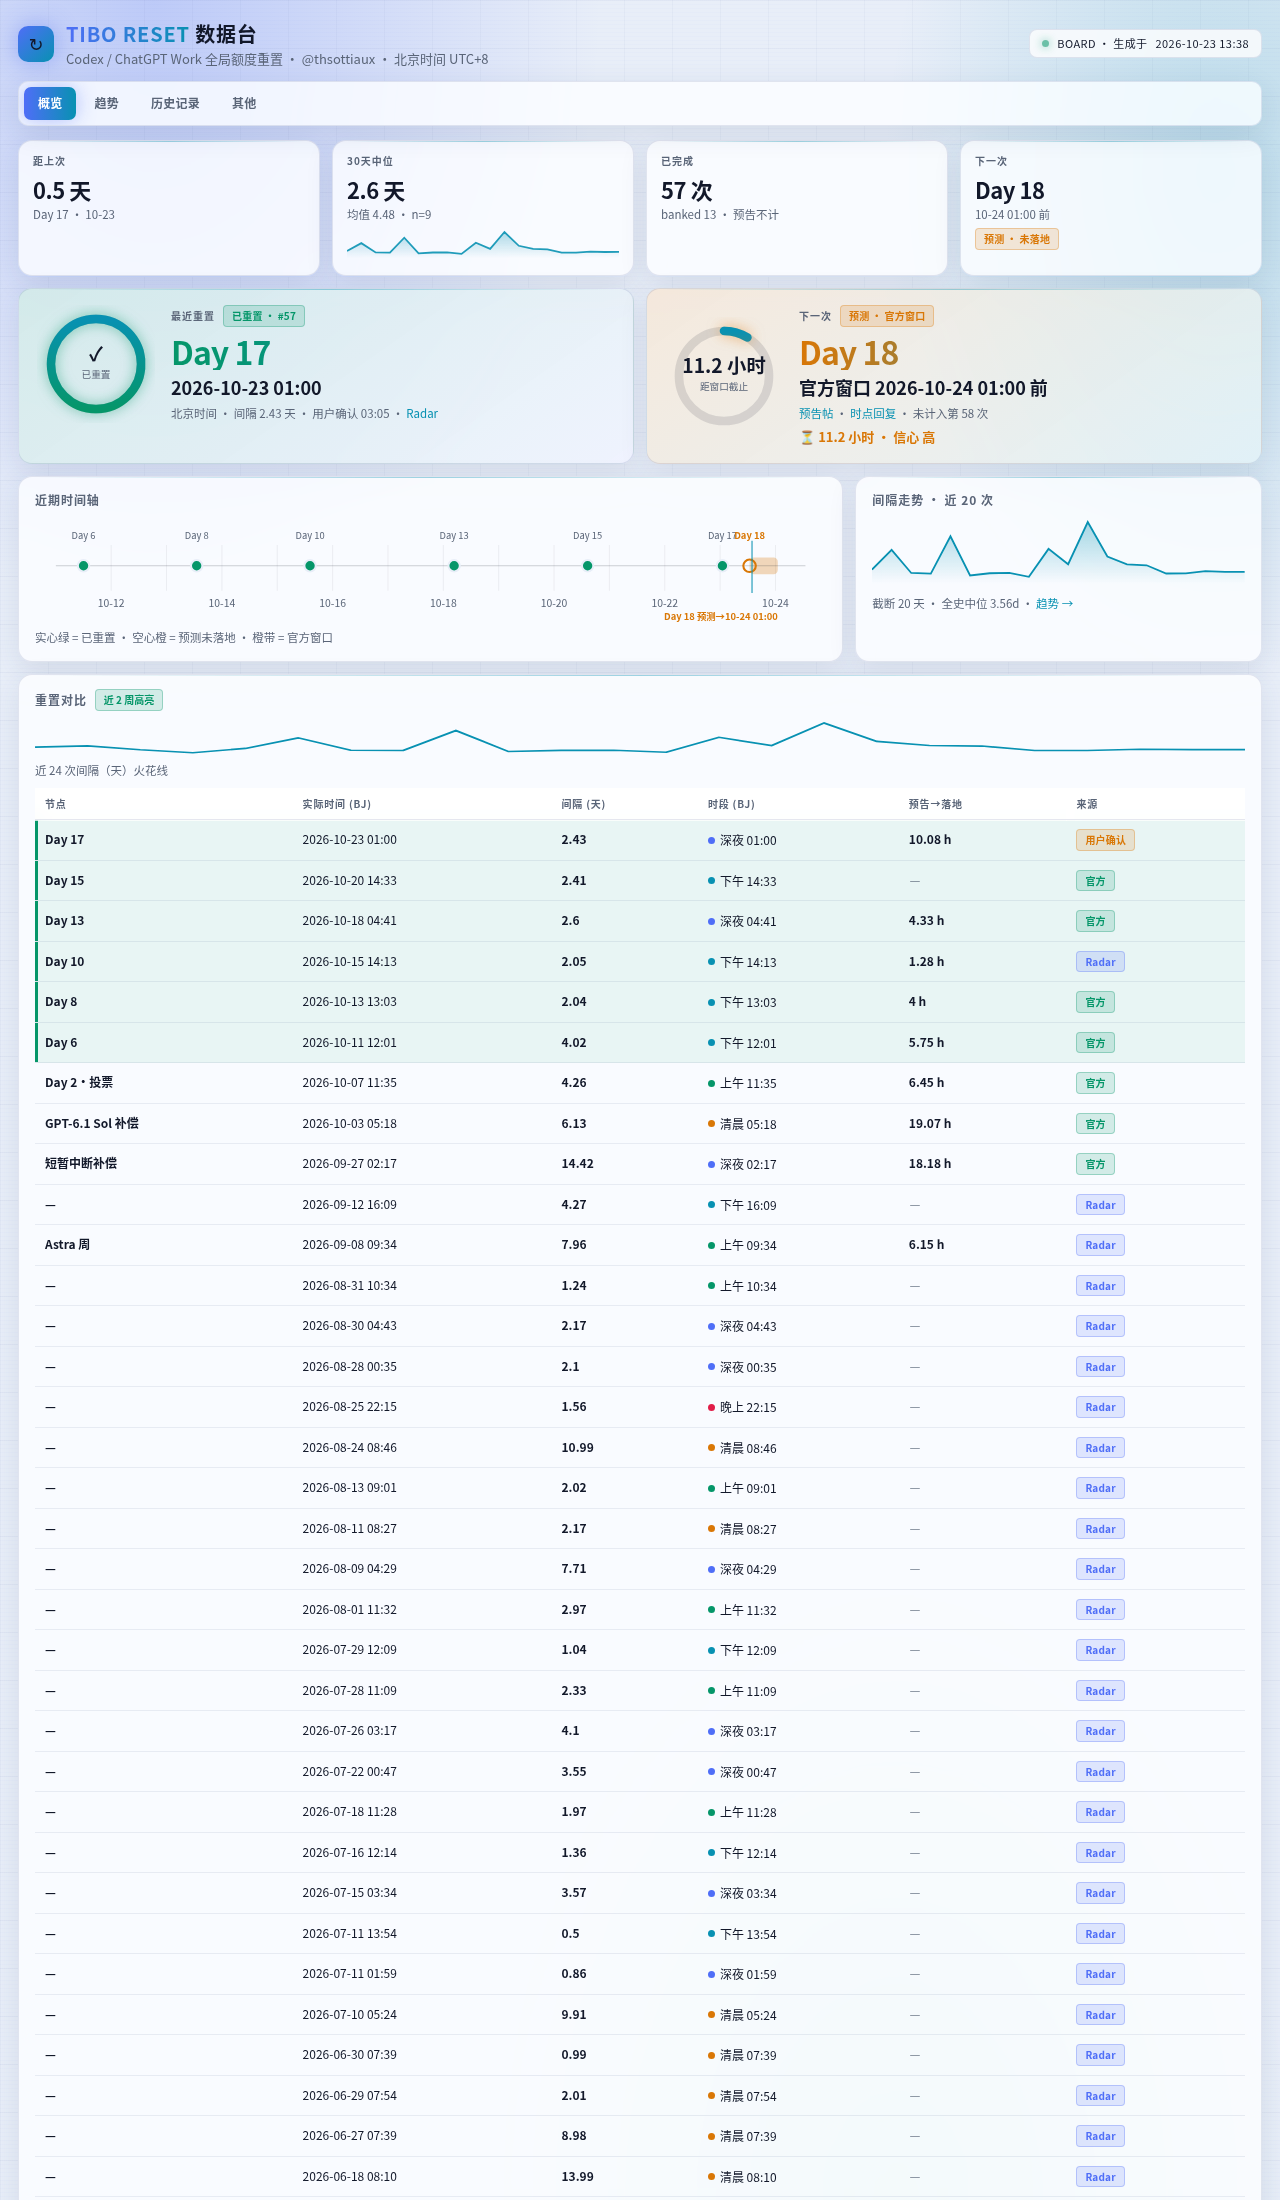
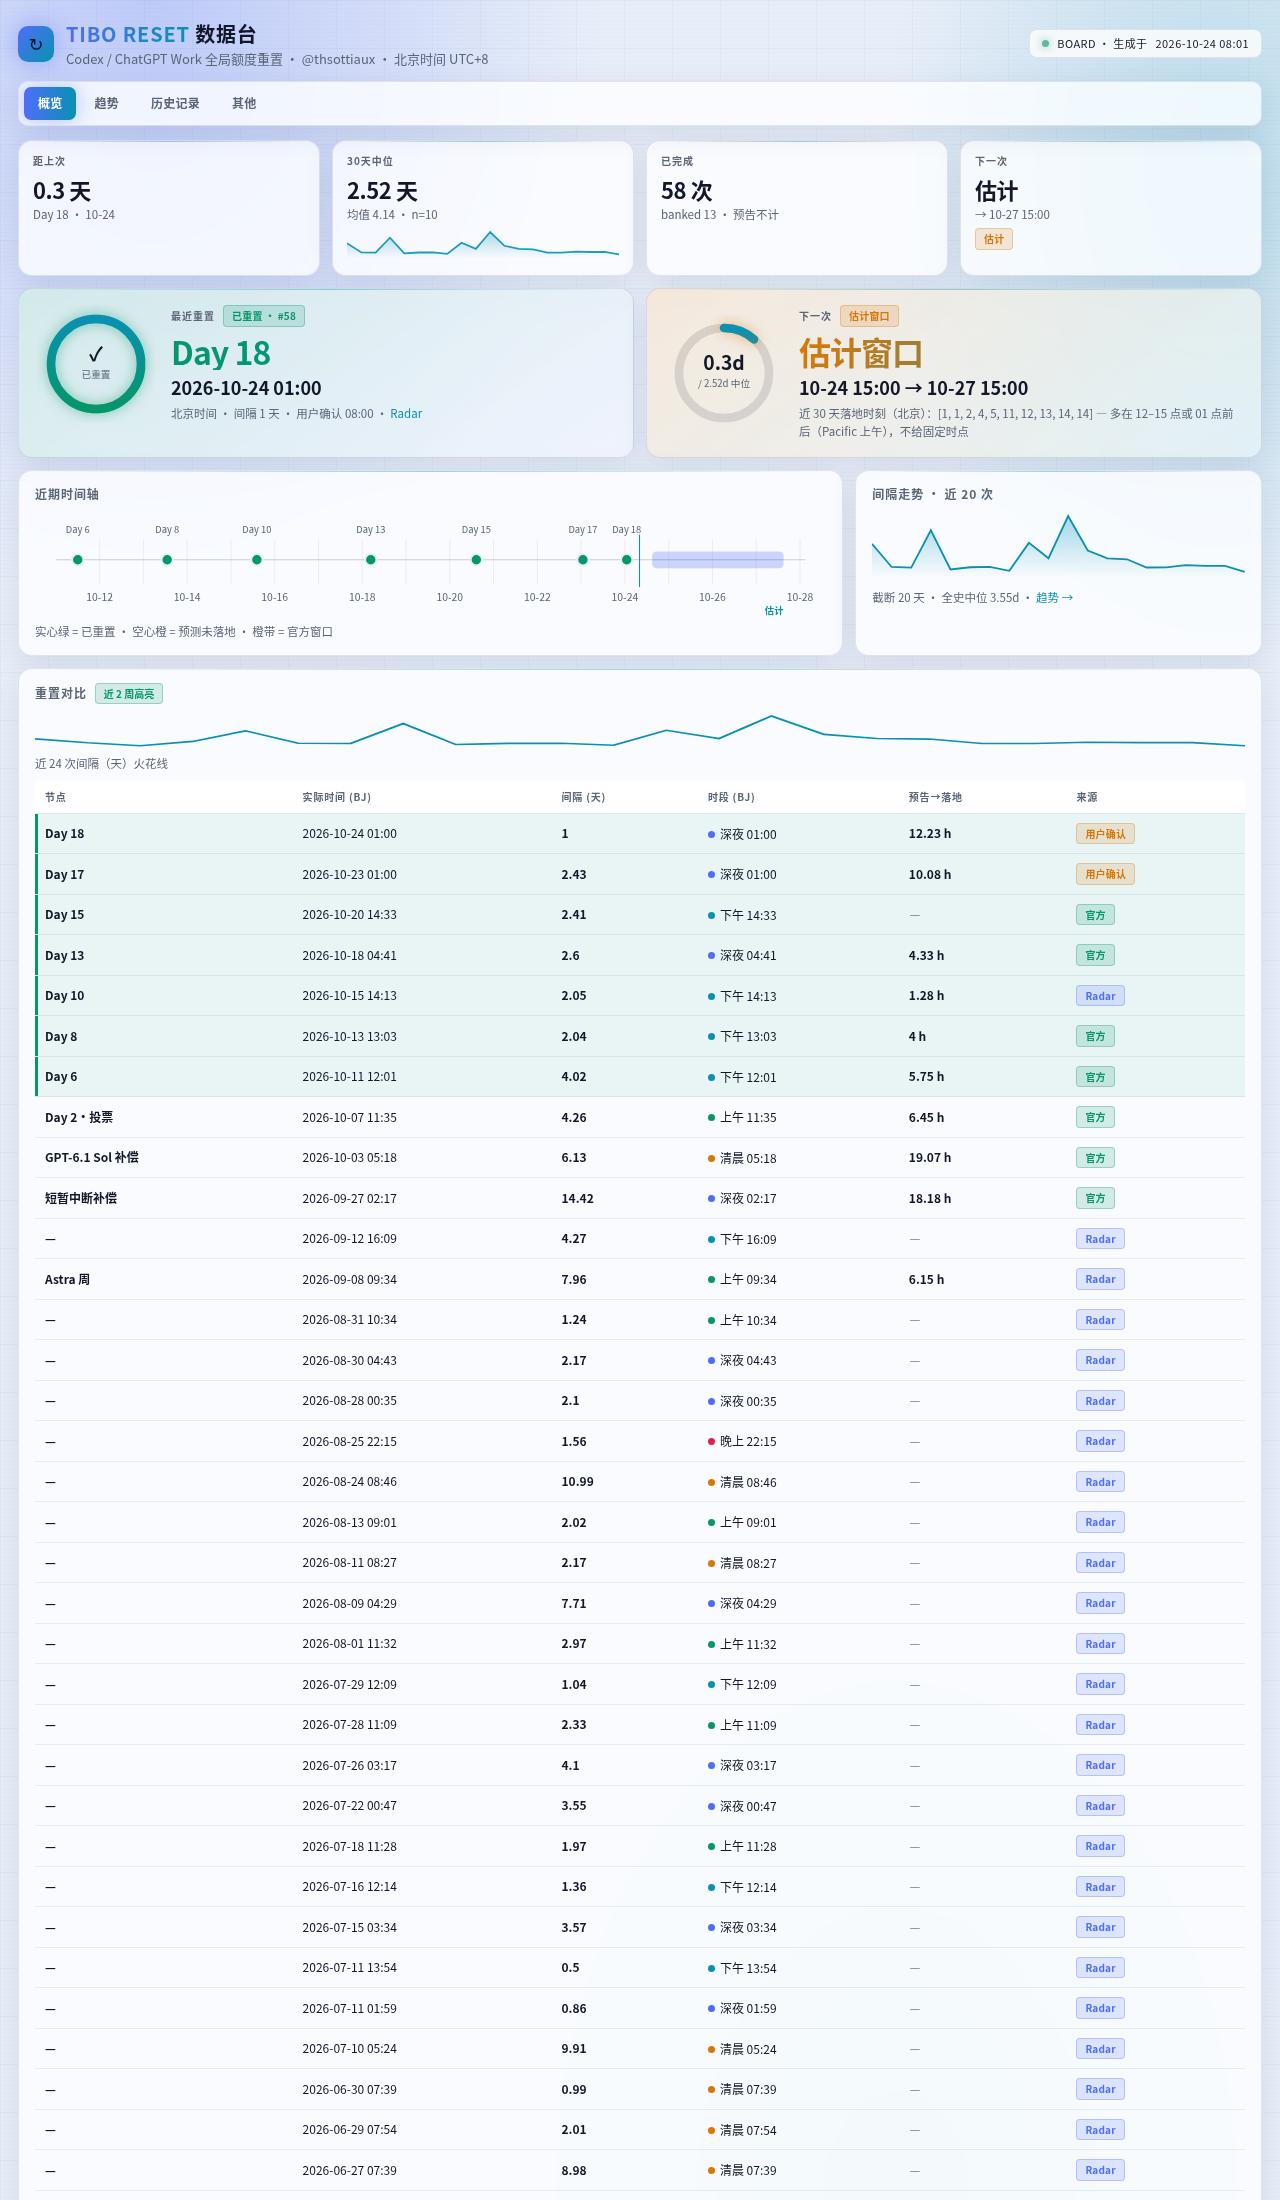
Day18 #58: hero estimate label, regenerate overview preview

diff --git a/index.html b/index.html
@@ -1671,7 +1671,7 @@ $('#heroNext').innerHTML=`<div class="hero-pair">
 ${ringSVG(isOff?winPct:pct,isOff?remainLabel:el.toFixed(1)+'d',isOff?'距窗口截止':'/ '+S.median+'d 中位','warn',118)}
 <div class="meta">
   <div style="display:flex;gap:8px;align-items:center;flex-wrap:wrap"><div class="k">下一次</div><span class="tag warn">${isOff?'预测 · 官方窗口':'估计窗口'}</span></div>
-  <div class="big grad-warn">${isOff&&Pend?Pend.label:'预测窗口'}</div>
+  <div class="big grad-warn">${isOff&&Pend?Pend.label:'估计窗口'}</div>
   <div class="v" style="font-size:18px">${isOff?`官方窗口 ${F.window_end_bj} 前`:`${F.window_start_bj.slice(5)} → ${F.window_end_bj.slice(5)}`}</div>
   <div class="q" style="margin-top:4px">${isOff&&Pend?`${lk(Pend.teaser.url,'预告帖')} · ${lk(Pend.reply.url,'时点回复')} · 未计入第 ${D.events.length+1} 次`:F.hour_note||''}</div>
   ${isOff?`<div class="cdown" style="color:var(--warn)">⏳ ${remainLabel} · 信心 ${F.confidence}</div>`:''}

diff --git a/tpl.html b/tpl.html
@@ -185,7 +185,7 @@ $('#heroNext').innerHTML=`<div class="hero-pair">
 ${ringSVG(isOff?winPct:pct,isOff?remainLabel:el.toFixed(1)+'d',isOff?'距窗口截止':'/ '+S.median+'d 中位','warn',118)}
 <div class="meta">
   <div style="display:flex;gap:8px;align-items:center;flex-wrap:wrap"><div class="k">下一次</div><span class="tag warn">${isOff?'预测 · 官方窗口':'估计窗口'}</span></div>
-  <div class="big grad-warn">${isOff&&Pend?Pend.label:'预测窗口'}</div>
+  <div class="big grad-warn">${isOff&&Pend?Pend.label:'估计窗口'}</div>
   <div class="v" style="font-size:18px">${isOff?`官方窗口 ${F.window_end_bj} 前`:`${F.window_start_bj.slice(5)} → ${F.window_end_bj.slice(5)}`}</div>
   <div class="q" style="margin-top:4px">${isOff&&Pend?`${lk(Pend.teaser.url,'预告帖')} · ${lk(Pend.reply.url,'时点回复')} · 未计入第 ${D.events.length+1} 次`:F.hour_note||''}</div>
   ${isOff?`<div class="cdown" style="color:var(--warn)">⏳ ${remainLabel} · 信心 ${F.confidence}</div>`:''}
